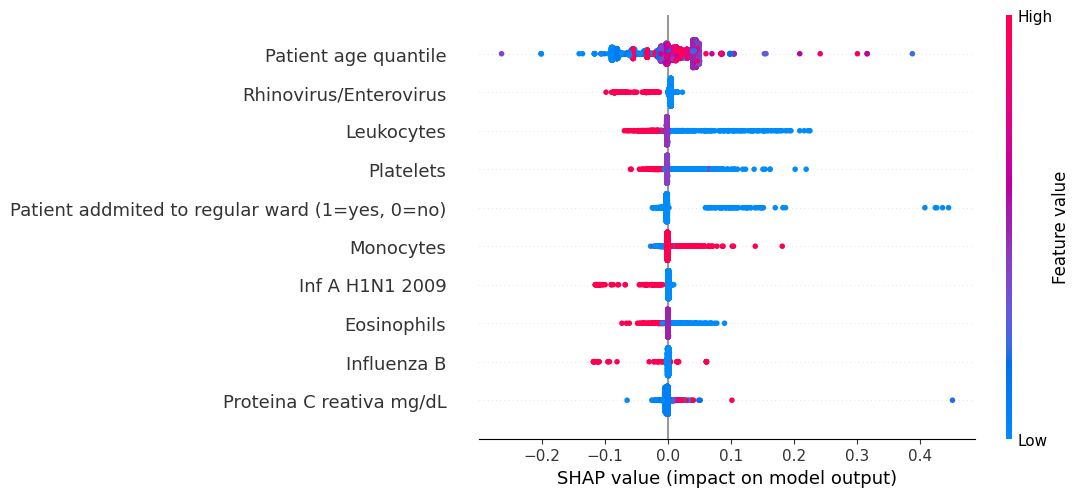
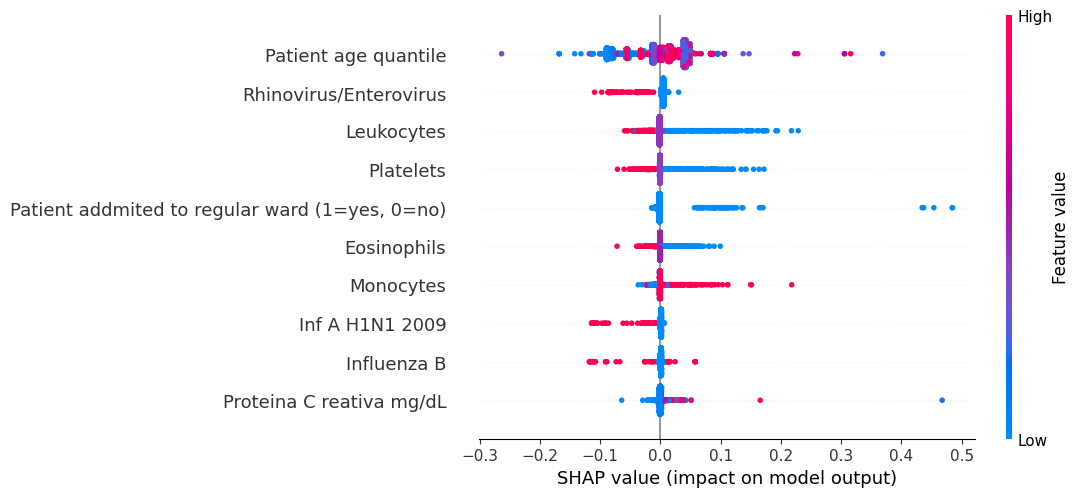
preenchendo colunas vazias

diff --git a/test_arrays.py b/test_arrays.py
@@ -1,38 +1,9 @@
-# testes finais
-X = dataset.loc[:, ["Mean corpuscular hemoglobin concentration (MCHC)", "Leukocytes", "Basophils", "Mean corpuscular hemoglobin (MCH)", "Eosinophils", "Hb saturation (venous blood gas analysis)", "Base excess (venous blood gas analysis)", "pH (arterial blood gas analysis)", "Total CO2 (arterial blood gas analysis)", "Aspartate transaminase"]]
-X = dataset.loc[:, ["Proteina C reativa mg/dL", "Urea", "ctO2 (arterial blood gas analysis)", "Neutrophils", "pCO2 (venous blood gas analysis)", "Mean corpuscular volume (MCV)", "Monocytes", "Red blood cell distribution width (RDW)", "Gamma-glutamyltransferase ", "Total Bilirubin"]]
-X = dataset.loc[:, ["Sodium", "Alanine transaminase", "Hemoglobin", "Red blood Cells", "Lymphocytes", "Proteina C reativa mg/dL", "Platelets", "Mean platelet volume ", "Red blood Cells", "Lymphocytes"]]
-X = dataset.loc[:, ["Patient age quantile", "Patient addmited to semi-intensive unit (1=yes, 0=no)", "Patient addmited to intensive care unit (1=yes, 0=no)", "Hematocrit", "Hemoglobin", "Alanine transaminase", "Aspartate transaminase", "Hb saturation (arterial blood gases)", "Creatinine", "Potassium"]]
-
-# melhores exames
-X = dataset.loc[:, ["Patient age quantile", "Hematocrit", "Proteina C reativa mg/dL", "Platelets", "Proteina C reativa mg/dL", "Red blood Cells", "Monocytes", "Leukocytes", "Eosinophils", "Hemoglobin"]]
-
-# todas colunas dos testes finais
-X = dataset.loc[:, ["Mean corpuscular hemoglobin concentration (MCHC)", "Leukocytes", "Basophils", "Mean corpuscular hemoglobin (MCH)", "Eosinophils", "Hb saturation (venous blood gas analysis)", "Base excess (venous blood gas analysis)", "pH (arterial blood gas analysis)", "Total CO2 (arterial blood gas analysis)", "Aspartate transaminase", "Proteina C reativa mg/dL", "Urea", "ctO2 (arterial blood gas analysis)", "Neutrophils", "pCO2 (venous blood gas analysis)", "Mean corpuscular volume (MCV)", "Monocytes", "Red blood cell distribution width (RDW)", "Gamma-glutamyltransferase ", "Total Bilirubin", "Sodium", "Alanine transaminase", "Hemoglobin", "Red blood Cells", "Lymphocytes", "Proteina C reativa mg/dL", "Platelets", "Mean platelet volume ", "Red blood Cells", "Lymphocytes", "Patient age quantile", "Patient addmited to semi-intensive unit (1=yes, 0=no)", "Patient addmited to intensive care unit (1=yes, 0=no)", "Hematocrit", "Hemoglobin", "Alanine transaminase", "Aspartate transaminase", "Hb saturation (arterial blood gases)", "Creatinine", "Potassium"]]
-
-
-
 ### TESTANDOS TODAS AS COLUNAS
 
 # colunas com strings
 ["Urine - Aspect", "Urine - Crystals", "Urine - Color"]    # ERRO
 
-# problemas com NaN
-["D-Dimer", "Mycoplasma pneumoniae", "Urine - Sugar", "Partial thromboplastin time (PTT) ", "Prothrombin time (PT), Activity"]
-
-
-
-# colunas OK para teste
-nomes = ["Patient age quantile", "Patient addmited to regular ward (1=yes, 0=no)", "Patient addmited to semi-intensive unit (1=yes, 0=no)", "Patient addmited to intensive care unit (1=yes, 0=no)", "Hematocrit", "Hemoglobin", "Platelets", "Mean platelet volume ", "Red blood Cells", "Lymphocytes"]
-nomes = ["Mean corpuscular hemoglobin concentration (MCHC)", "Leukocytes", "Basophils", "Mean corpuscular hemoglobin (MCH)", "Eosinophils", "Mean corpuscular volume (MCV)", "Monocytes", "Red blood cell distribution width (RDW)", "Serum Glucose", "Respiratory Syncytial Virus"]
-nomes = ["Urine - Leukocytes", "Influenza A", "Influenza B", "Parainfluenza 1", "CoronavirusNL63", "Rhinovirus/Enterovirus",  "Coronavirus HKU1", "Parainfluenza 3", "Chlamydophila pneumoniae", "Adenovirus"]
-nomes = ["Parainfluenza 4", "Coronavirus229E", "CoronavirusOC43", "Inf A H1N1 2009", "Bordetella pertussis", "Metapneumovirus", "Parainfluenza 2", "Neutrophils", "Urea", "Proteina C reativa mg/dL"]
-nomes = ["Creatinine", "Potassium", "Sodium", "Influenza B, rapid test", "Influenza A, rapid test", "Alanine transaminase", "Aspartate transaminase", "Gamma-glutamyltransferase ", "Total Bilirubin", "Direct Bilirubin"]
-nomes = ["Indirect Bilirubin", "Alkaline phosphatase", "Ionized calcium ", "Strepto A", "Magnesium", "pCO2 (venous blood gas analysis)", "Hb saturation (venous blood gas analysis)", "Base excess (venous blood gas analysis)", "pO2 (venous blood gas analysis)", "Fio2 (venous blood gas analysis)"]
-nomes = ["Total CO2 (venous blood gas analysis)", "pH (venous blood gas analysis)", "HCO3 (venous blood gas analysis)", "Rods #", "Segmented", "Promyelocytes", "Metamyelocytes", "Myelocytes", "Myeloblasts", "Urine - Esterase", "Urine - pH", "Urine - Yeasts", "Urine - Granular cylinders", "Urine - Hyaline cylinders", "Urine - Hemoglobin", "Urine - Bile pigments", "Urine - Ketone Bodies", "Urine - Nitrite", "Urine - Urobilinogen", "Urine - Protein","Urine - Density", "Relationship (Patient/Normal)", "International normalized ratio (INR)", "Urine - Red blood cells", "Lactic Dehydrogenase", "Creatine phosphokinase (CPK) ", "Ferritin"]
-nomes = ["Vitamin B12", "Arterial Lactic Acid", "Lipase dosage", "pCO2 (arterial blood gas analysis)", "Base excess (arterial blood gas analysis)", "pH (arterial blood gas analysis)", "Total CO2 (arterial blood gas analysis)", "HCO3 (arterial blood gas analysis)", "pO2 (arterial blood gas analysis)", "Arteiral Fio2", "Phosphor", "ctO2 (arterial blood gas analysis)"]
-
-# todas as colunas para um teste 
+# todas as colunas OK para um teste 
 nomes = ["Patient age quantile", "Patient addmited to regular ward (1=yes, 0=no)", "Patient addmited to semi-intensive unit (1=yes, 0=no)", "Patient addmited to intensive care unit (1=yes, 0=no)", "Hematocrit", "Hemoglobin", "Platelets", "Mean platelet volume ", "Red blood Cells", "Lymphocytes", 
         "Mean corpuscular hemoglobin concentration (MCHC)", "Leukocytes", "Basophils", "Mean corpuscular hemoglobin (MCH)", "Eosinophils", "Mean corpuscular volume (MCV)", "Monocytes", "Red blood cell distribution width (RDW)", "Serum Glucose", "Respiratory Syncytial Virus", "Influenza A",
         "Influenza B", "Parainfluenza 1", "CoronavirusNL63", "Rhinovirus/Enterovirus",  "Coronavirus HKU1", "Parainfluenza 3", "Chlamydophila pneumoniae", "Adenovirus", "Parainfluenza 4", "Coronavirus229E", "CoronavirusOC43", "Inf A H1N1 2009", "Bordetella pertussis", "Metapneumovirus", 
@@ -41,14 +12,28 @@ nomes = ["Patient age quantile", "Patient addmited to regular ward (1=yes, 0=no)
         "Total CO2 (venous blood gas analysis)", "pH (venous blood gas analysis)", "HCO3 (venous blood gas analysis)", "Rods #", "Segmented", "Promyelocytes", "Metamyelocytes", "Myelocytes", "Myeloblasts", "Urine - Esterase", "Urine - pH", "Urine - Yeasts", "Urine - Granular cylinders",
         "Urine - Hyaline cylinders", "Urine - Hemoglobin", "Urine - Bile pigments", "Urine - Ketone Bodies", "Urine - Nitrite", "Urine - Urobilinogen", "Urine - Protein","Urine - Density", "Relationship (Patient/Normal)", "International normalized ratio (INR)", "Urine - Red blood cells",
         "Lactic Dehydrogenase", "Creatine phosphokinase (CPK) ", "Ferritin", "Vitamin B12", "Arterial Lactic Acid", "Lipase dosage", "pCO2 (arterial blood gas analysis)", "Base excess (arterial blood gas analysis)", "pH (arterial blood gas analysis)", "Total CO2 (arterial blood gas analysis)",
-        "HCO3 (arterial blood gas analysis)", "pO2 (arterial blood gas analysis)", "Arteiral Fio2", "Phosphor", "ctO2 (arterial blood gas analysis)", "Urine - Leukocytes"]
+        "HCO3 (arterial blood gas analysis)", "pO2 (arterial blood gas analysis)", "Arteiral Fio2", "Phosphor", "ctO2 (arterial blood gas analysis)", "Urine - Leukocytes", "D-Dimer", "Mycoplasma pneumoniae", "Urine - Sugar", "Partial thromboplastin time (PTT) ", "Prothrombin time (PT), Activity"]
 
 
 
 
-        #############################################################################################################################################################################################################################################################################################################################################################################
+#############################################################################################################################################################################################################################################################################################################################################################################
 
-        # X = dataset.loc[:, ["Hemoglobin", "Red blood Cells", "Lymphocytes", "Proteina C reativa mg/dL", "Alanine transaminase", "Aspartate transaminase", "Lactic Dehydrogenase", "Albumin", "Hb saturation (arterial blood gases)", "pCO2 (arterial blood gas analysis)"]]
+# # testes finais
+# X = dataset.loc[:, ["Mean corpuscular hemoglobin concentration (MCHC)", "Leukocytes", "Basophils", "Mean corpuscular hemoglobin (MCH)", "Eosinophils", "Hb saturation (venous blood gas analysis)", "Base excess (venous blood gas analysis)", "pH (arterial blood gas analysis)", "Total CO2 (arterial blood gas analysis)", "Aspartate transaminase"]]
+# X = dataset.loc[:, ["Proteina C reativa mg/dL", "Urea", "ctO2 (arterial blood gas analysis)", "Neutrophils", "pCO2 (venous blood gas analysis)", "Mean corpuscular volume (MCV)", "Monocytes", "Red blood cell distribution width (RDW)", "Gamma-glutamyltransferase ", "Total Bilirubin"]]
+# X = dataset.loc[:, ["Sodium", "Alanine transaminase", "Hemoglobin", "Red blood Cells", "Lymphocytes", "Proteina C reativa mg/dL", "Platelets", "Mean platelet volume ", "Red blood Cells", "Lymphocytes"]]
+# X = dataset.loc[:, ["Patient age quantile", "Patient addmited to semi-intensive unit (1=yes, 0=no)", "Patient addmited to intensive care unit (1=yes, 0=no)", "Hematocrit", "Hemoglobin", "Alanine transaminase", "Aspartate transaminase", "Hb saturation (arterial blood gases)", "Creatinine", "Potassium"]]
+
+# # melhores exames
+# X = dataset.loc[:, ["Patient age quantile", "Hematocrit", "Proteina C reativa mg/dL", "Platelets", "Proteina C reativa mg/dL", "Red blood Cells", "Monocytes", "Leukocytes", "Eosinophils", "Hemoglobin"]]
+
+# # todas colunas dos testes finais
+# X = dataset.loc[:, ["Mean corpuscular hemoglobin concentration (MCHC)", "Leukocytes", "Basophils", "Mean corpuscular hemoglobin (MCH)", "Eosinophils", "Hb saturation (venous blood gas analysis)", "Base excess (venous blood gas analysis)", "pH (arterial blood gas analysis)", "Total CO2 (arterial blood gas analysis)", "Aspartate transaminase", "Proteina C reativa mg/dL", "Urea", "ctO2 (arterial blood gas analysis)", "Neutrophils", "pCO2 (venous blood gas analysis)", "Mean corpuscular volume (MCV)", "Monocytes", "Red blood cell distribution width (RDW)", "Gamma-glutamyltransferase ", "Total Bilirubin", "Sodium", "Alanine transaminase", "Hemoglobin", "Red blood Cells", "Lymphocytes", "Proteina C reativa mg/dL", "Platelets", "Mean platelet volume ", "Red blood Cells", "Lymphocytes", "Patient age quantile", "Patient addmited to semi-intensive unit (1=yes, 0=no)", "Patient addmited to intensive care unit (1=yes, 0=no)", "Hematocrit", "Hemoglobin", "Alanine transaminase", "Aspartate transaminase", "Hb saturation (arterial blood gases)", "Creatinine", "Potassium"]]
+
+
+
+# X = dataset.loc[:, ["Hemoglobin", "Red blood Cells", "Lymphocytes", "Proteina C reativa mg/dL", "Alanine transaminase", "Aspartate transaminase", "Lactic Dehydrogenase", "Albumin", "Hb saturation (arterial blood gases)", "pCO2 (arterial blood gas analysis)"]]
 # X = dataset.loc[:, ["Patient age quantile", "Patient addmited to regular ward (1=yes, 0=no)", "Patient addmited to semi-intensive unit (1=yes, 0=no)", "Patient addmited to intensive care unit (1=yes, 0=no)", "Hematocrit", "Hemoglobin", "Platelets", "Mean platelet volume ", "Red blood Cells", "Lymphocytes"]]
 # X = dataset.loc[:, ["Mean corpuscular hemoglobin concentration (MCHC)", "Leukocytes", "Basophils", "Mean corpuscular hemoglobin (MCH)", "Eosinophils", "Mean corpuscular volume (MCV)", "Monocytes", "Red blood cell distribution width (RDW)", "Serum Glucose", "Respiratory Syncytial Virus"]]
 # X = dataset.loc[:, ["Influenza A", "Influenza B", "Parainfluenza 1", "CoronavirusNL63", "Rhinovirus/Enterovirus", "Mycoplasma pneumoniae", "Coronavirus HKU1", "Parainfluenza 3", "Chlamydophila pneumoniae", "Adenovirus"]]    # ERRO

diff --git a/questao1_ana_marcella.py b/questao1_ana_marcella.py
@@ -30,9 +30,10 @@ dataset = dataset.replace(['<1000'], float(random.uniform(0,999)))
 
 
 #Preenchimento de valores vazios
-dataset=dataset.fillna(dataset.median ())
+dataset=dataset.fillna(dataset.median())
+dataset=dataset.fillna(0)
 
-# print(dataset["Urine - Leukocytes"].unique())
+# print(dataset["D-Dimer"].unique())
 
 #Setando valores de Feature set (conjunto de variáveis) e labels
 X = dataset.loc[:, ["Patient age quantile", "Patient addmited to regular ward (1=yes, 0=no)", "Patient addmited to semi-intensive unit (1=yes, 0=no)", "Patient addmited to intensive care unit (1=yes, 0=no)", "Hematocrit", "Hemoglobin", "Platelets", "Mean platelet volume ", "Red blood Cells", "Lymphocytes", 
@@ -43,7 +44,7 @@ X = dataset.loc[:, ["Patient age quantile", "Patient addmited to regular ward (1
         "Total CO2 (venous blood gas analysis)", "pH (venous blood gas analysis)", "HCO3 (venous blood gas analysis)", "Rods #", "Segmented", "Promyelocytes", "Metamyelocytes", "Myelocytes", "Myeloblasts", "Urine - Esterase", "Urine - pH", "Urine - Yeasts", "Urine - Granular cylinders",
         "Urine - Hyaline cylinders", "Urine - Hemoglobin", "Urine - Bile pigments", "Urine - Ketone Bodies", "Urine - Nitrite", "Urine - Urobilinogen", "Urine - Protein","Urine - Density", "Relationship (Patient/Normal)", "International normalized ratio (INR)", "Urine - Red blood cells",
         "Lactic Dehydrogenase", "Creatine phosphokinase (CPK) ", "Ferritin", "Vitamin B12", "Arterial Lactic Acid", "Lipase dosage", "pCO2 (arterial blood gas analysis)", "Base excess (arterial blood gas analysis)", "pH (arterial blood gas analysis)", "Total CO2 (arterial blood gas analysis)",
-        "HCO3 (arterial blood gas analysis)", "pO2 (arterial blood gas analysis)", "Arteiral Fio2", "Phosphor", "ctO2 (arterial blood gas analysis)", "Urine - Leukocytes"]]
+        "HCO3 (arterial blood gas analysis)", "pO2 (arterial blood gas analysis)", "Arteiral Fio2", "Phosphor", "ctO2 (arterial blood gas analysis)", "Urine - Leukocytes", "D-Dimer", "Mycoplasma pneumoniae", "Urine - Sugar", "Partial thromboplastin time (PTT) ", "Prothrombin time (PT), Activity"]]
 
 y = dataset.loc[:, "SARS-Cov-2 exam result"]
 
@@ -87,7 +88,7 @@ nomes = ["Patient age quantile", "Patient addmited to regular ward (1=yes, 0=no)
         "Total CO2 (venous blood gas analysis)", "pH (venous blood gas analysis)", "HCO3 (venous blood gas analysis)", "Rods #", "Segmented", "Promyelocytes", "Metamyelocytes", "Myelocytes", "Myeloblasts", "Urine - Esterase", "Urine - pH", "Urine - Yeasts", "Urine - Granular cylinders",
         "Urine - Hyaline cylinders", "Urine - Hemoglobin", "Urine - Bile pigments", "Urine - Ketone Bodies", "Urine - Nitrite", "Urine - Urobilinogen", "Urine - Protein","Urine - Density", "Relationship (Patient/Normal)", "International normalized ratio (INR)", "Urine - Red blood cells",
         "Lactic Dehydrogenase", "Creatine phosphokinase (CPK) ", "Ferritin", "Vitamin B12", "Arterial Lactic Acid", "Lipase dosage", "pCO2 (arterial blood gas analysis)", "Base excess (arterial blood gas analysis)", "pH (arterial blood gas analysis)", "Total CO2 (arterial blood gas analysis)",
-        "HCO3 (arterial blood gas analysis)", "pO2 (arterial blood gas analysis)", "Arteiral Fio2", "Phosphor", "ctO2 (arterial blood gas analysis)", "Urine - Leukocytes"]
+        "HCO3 (arterial blood gas analysis)", "pO2 (arterial blood gas analysis)", "Arteiral Fio2", "Phosphor", "ctO2 (arterial blood gas analysis)", "Urine - Leukocytes", "D-Dimer", "Mycoplasma pneumoniae", "Urine - Sugar", "Partial thromboplastin time (PTT) ", "Prothrombin time (PT), Activity"]
 
 #Plota gráfico, salvo na mesma pasta do código
 shap.summary_plot(shap_values[1], X_train, show=False, max_display=10, feature_names=nomes)

diff --git a/questao2_ana_marcella.py b/questao2_ana_marcella.py
@@ -41,7 +41,8 @@ dataset = pd.concat([dataset, df1], axis=1)
 dataset = dataset.rename({0: 'Local de tratamento'}, axis='columns')
 
 #Preenchimento de valores vazios
-dataset=dataset.fillna(dataset.median ())
+dataset=dataset.fillna(dataset.median())
+dataset=dataset.fillna(0)
 
 #Setando valores de Feature set (conjunto de variáveis) e labels
 X = dataset.loc[:, ["Patient age quantile", "Patient addmited to regular ward (1=yes, 0=no)", "Patient addmited to semi-intensive unit (1=yes, 0=no)", "Patient addmited to intensive care unit (1=yes, 0=no)", "Hematocrit", "Hemoglobin", "Platelets", "Mean platelet volume ", "Red blood Cells", "Lymphocytes", 
@@ -52,7 +53,7 @@ X = dataset.loc[:, ["Patient age quantile", "Patient addmited to regular ward (1
         "Total CO2 (venous blood gas analysis)", "pH (venous blood gas analysis)", "HCO3 (venous blood gas analysis)", "Rods #", "Segmented", "Promyelocytes", "Metamyelocytes", "Myelocytes", "Myeloblasts", "Urine - Esterase", "Urine - pH", "Urine - Yeasts", "Urine - Granular cylinders",
         "Urine - Hyaline cylinders", "Urine - Hemoglobin", "Urine - Bile pigments", "Urine - Ketone Bodies", "Urine - Nitrite", "Urine - Urobilinogen", "Urine - Protein","Urine - Density", "Relationship (Patient/Normal)", "International normalized ratio (INR)", "Urine - Red blood cells",
         "Lactic Dehydrogenase", "Creatine phosphokinase (CPK) ", "Ferritin", "Vitamin B12", "Arterial Lactic Acid", "Lipase dosage", "pCO2 (arterial blood gas analysis)", "Base excess (arterial blood gas analysis)", "pH (arterial blood gas analysis)", "Total CO2 (arterial blood gas analysis)",
-        "HCO3 (arterial blood gas analysis)", "pO2 (arterial blood gas analysis)", "Arteiral Fio2", "Phosphor", "ctO2 (arterial blood gas analysis)", "Urine - Leukocytes"]]
+        "HCO3 (arterial blood gas analysis)", "pO2 (arterial blood gas analysis)", "Arteiral Fio2", "Phosphor", "ctO2 (arterial blood gas analysis)", "Urine - Leukocytes", "D-Dimer", "Mycoplasma pneumoniae", "Urine - Sugar", "Partial thromboplastin time (PTT) ", "Prothrombin time (PT), Activity"]]
 y = dataset.loc[:, "Local de tratamento"]
 
 #Separando a porção de treino e de teste
@@ -96,7 +97,7 @@ nomes = ["Patient age quantile", "Patient addmited to regular ward (1=yes, 0=no)
         "Total CO2 (venous blood gas analysis)", "pH (venous blood gas analysis)", "HCO3 (venous blood gas analysis)", "Rods #", "Segmented", "Promyelocytes", "Metamyelocytes", "Myelocytes", "Myeloblasts", "Urine - Esterase", "Urine - pH", "Urine - Yeasts", "Urine - Granular cylinders",
         "Urine - Hyaline cylinders", "Urine - Hemoglobin", "Urine - Bile pigments", "Urine - Ketone Bodies", "Urine - Nitrite", "Urine - Urobilinogen", "Urine - Protein","Urine - Density", "Relationship (Patient/Normal)", "International normalized ratio (INR)", "Urine - Red blood cells",
         "Lactic Dehydrogenase", "Creatine phosphokinase (CPK) ", "Ferritin", "Vitamin B12", "Arterial Lactic Acid", "Lipase dosage", "pCO2 (arterial blood gas analysis)", "Base excess (arterial blood gas analysis)", "pH (arterial blood gas analysis)", "Total CO2 (arterial blood gas analysis)",
-        "HCO3 (arterial blood gas analysis)", "pO2 (arterial blood gas analysis)", "Arteiral Fio2", "Phosphor", "ctO2 (arterial blood gas analysis)", "Urine - Leukocytes"]
+        "HCO3 (arterial blood gas analysis)", "pO2 (arterial blood gas analysis)", "Arteiral Fio2", "Phosphor", "ctO2 (arterial blood gas analysis)", "Urine - Leukocytes", "D-Dimer", "Mycoplasma pneumoniae", "Urine - Sugar", "Partial thromboplastin time (PTT) ", "Prothrombin time (PT), Activity"]
 
 #Plota gráfico, salvo na mesma pasta do código
 shap.summary_plot(shap_values[1], X_train, show=False, max_display=10,feature_names=nomes)
